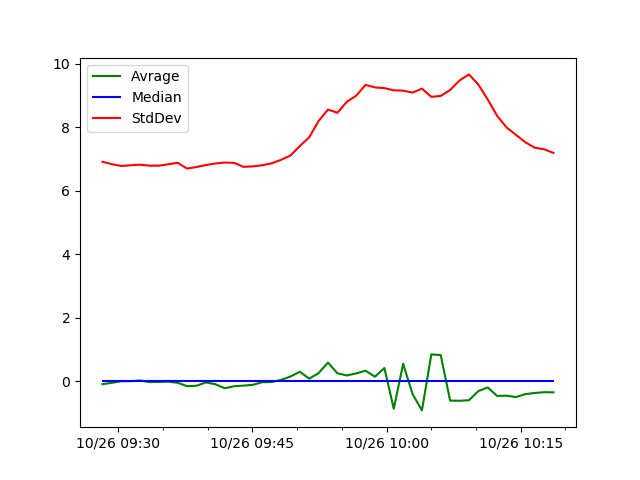
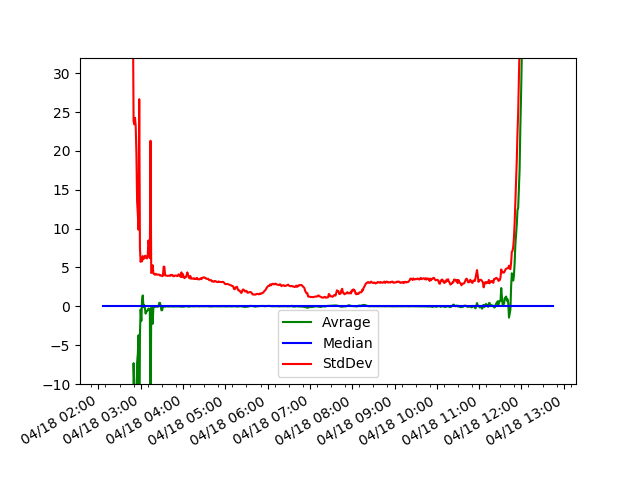
Required error handling for bad files
Also plot cleanup. Might try to make this usable by monsoon season.

diff --git a/CloudyMcCloudface/skyBrightnessMasked.py b/CloudyMcCloudface/skyBrightnessMasked.py
@@ -83,54 +83,84 @@ def assessAll(iloc, oloc, mask, hkeys):
     tims = []
 
     flist = sorted(glob(iloc + "/TARGET*.fit.bz2"))
+    print("%d files found in %s" % (len(flist), iloc))
     # Only do stuff if we actually found some files
     if flist != [] and len(flist) > 1:
         checkOutDir(oloc)
 
         for i, each in enumerate(flist):
-            dat, heds = readFITS(each, hkeys)
+            try:
+                dat, heds = readFITS(each, hkeys)
+                failed = False
+            except ValueError:
+                # Ocassionally there will be a bizzaro value like:
+                #   DATE-OBS='2020-04-18T10:55:56.100010:55:56.100000:00:00'
+                #   and UTSTART is similiarly screwed up.
+                #
+                # Skip that file because god knows what else is wrong with
+                #   it internally and it's not worth dealing with
+                print("Unparsable file %s! Bad header card? Skipping it..." %
+                      (os.path.basename(each)))
+                failed = True
 
-            # Mask out the icky stuff
-            dat *= mdata
+            if failed is False:
+                # Mask out the icky stuff
+                dat *= mdata
 
-            # Put it into ADU/s
-            dat = dat/heds['exptime']
-            print(os.path.basename(each), heds['date-obs'])
+                # Put it into ADU/s
+                dat = dat/heds['exptime']
+                dateobs = heds['date-obs']
 
-            if i > 0:
-                tims.append(heds['date-obs'])
-                # sdat = np.abs(dat - odat)
-                sdat = dat - odat
+                print(os.path.basename(each), dateobs, end=' ')
 
-                avgs.append(np.average(sdat))
-                stds.append(np.std(sdat))
-                meds.append(np.median(sdat))
+                if i > 0:
+                    tims.append(dateobs)
+                    # sdat = np.abs(dat - odat)
+                    sdat = dat - odat
 
-                plt.imshow(sdat, origin='lower', cmap='Greys_r',
-                           vmin=0, vmax=50)
+                    tavg = np.average(sdat)
+                    tstd = np.std(sdat)
+                    tmed = np.median(sdat)
+                    avgs.append(tavg)
+                    stds.append(tstd)
+                    meds.append(tmed)
 
-                plt.text(900, 30, ("%s" % (heds['date-obs'])), color='white')
-                plt.savefig('./subbed/simg_%04d.png' % (i))
-                plt.close()
+                    print("%.4f %.4f %.4f" % (tavg, tmed, tstd))
 
-            odat = dat
+                    plt.imshow(sdat, origin='lower', cmap='Greys_r',
+                               vmin=-50, vmax=50)
+
+                    plt.text(800, 30, ("%s" % (heds['date-obs'])),
+                             color='white')
+                    plt.savefig('./subbed/simg_%04d.png' % (i))
+                    plt.close()
+                else:
+                    # No stats to print so just break the line
+                    print()
+                odat = dat
 
         plt.plot(tims, avgs, color='g', label="Avrage")
         plt.plot(tims, meds, color='b', label="Median")
         plt.plot(tims, stds, color='r', label="StdDev")
 
-        # plt.ylim([0, 250])
+        # This should hopefully capture all the things you care about
+        ymin = round(-3.0*np.median(stds), 0)
+        ymax = round(10.0*np.median(stds), 0)
+        print(ymin, ymax)
+
+        plt.ylim([ymin, ymax])
         # plt.ylim([0, 10])
         # plt.ylim([0, 40])
 
-        # majTicks = mdates.HourLocator(interval=1)
-        majTicks = mdates.MinuteLocator(interval=15)
-        minTicks = mdates.MinuteLocator(interval=5)
+        majTicks = mdates.HourLocator(interval=1)
+        # majTicks = mdates.MinuteLocator(interval=15)
+        minTicks = mdates.MinuteLocator(interval=20)
         fmt = mdates.DateFormatter('%m/%d %H:%M')
 
         plt.gca().xaxis.set_major_locator(majTicks)
         plt.gca().xaxis.set_minor_locator(minTicks)
         plt.gca().xaxis.set_major_formatter(fmt)
+        plt.gcf().autofmt_xdate()
 
         plt.legend()
         plt.savefig("./sky.png")
@@ -140,7 +170,7 @@ def assessAll(iloc, oloc, mask, hkeys):
 if __name__ == "__main__":
     # NOTE: FITS file mask is still hardcoded in the assessAll func!
 
-    inloc = './indata/'
+    inloc = '/Users/rhamilton/Scratch/allsky/20200418/'
     outloc = './subbed/'
     mask = './dctallsky_mask_dirty.tiff'
     hkeys = ['exptime', 'date-obs', 'tempamb', 'humidity']
